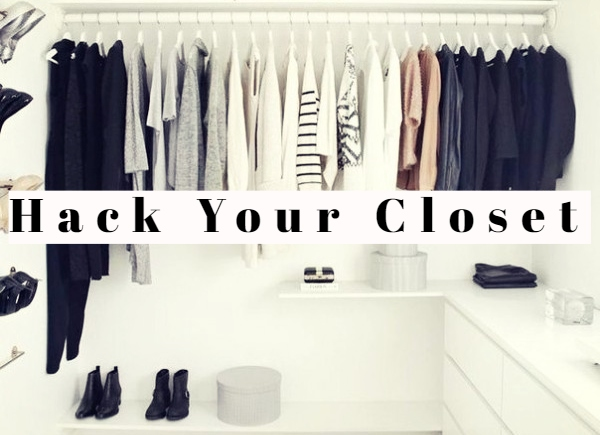
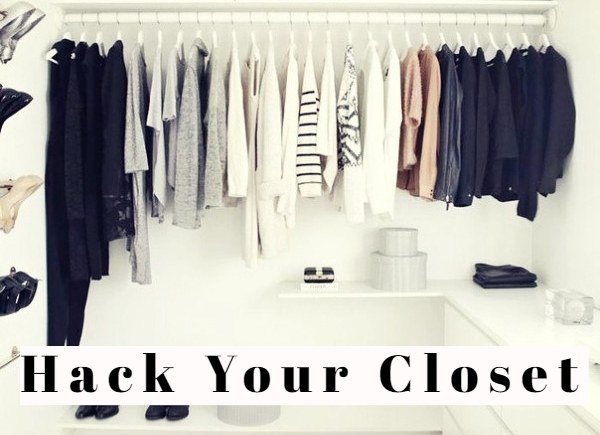
login page css

Changed region(s): [[0.0, 0.4184, 0.99, 0.5678], [0.03, 0.777, 0.99, 0.9563]]

diff --git a/public/css/user_register_or_login.css b/public/css/user_register_or_login.css
@@ -4,15 +4,72 @@
 /*    border: 1px solid transparent;*/
 /*}*/
 
-img {
-    width: 100%;
-    margin-left: 10px;
+/*img {*/
+/*    width: 100%;*/
+/*    margin-left: 10px;*/
+/*}*/
+
+/*div.col-xs-7 {*/
+/*    padding: 0;*/
+/*}*/
+
+/*div.col-xs-5 {*/
+/*    padding: 0;*/
+/*}*/
+
+body {
+    background-image: linear-gradient(rgba(255,255,255,.5), rgba(255,255,255,.5)), url('img/hack_your_closet.jpg');
+     /*height: 100%;*/
+    opacity: 0.95;
+    padding: 0;
+
+    background-size: auto, auto; /* Not to be confused with `auto auto` */
+    background-size: 50%, 25%, 25%;
+    background-size: 550px, auto, contain;
+    background-position: 20% 80%;
+    
 }
 
-div.col-xs-7 {
-    padding: 0;
+
+
+body.style {
+    opacity: 0.2;
 }
 
-div.col-xs-5 {
-    padding: 0;
+.col-xs-4 {
+    float: right;
+    margin-right:50px;
+ /*margin-left: 700px;*/
+ /*margin-top:50px;*/
+}
+
+.navbar {
+    font-family: "Abril-Fatface";
+    background-color: black;
+}
+
+.panel{
+    border-color:black;
+    border-radius: 15px;
+    font-family: "Abril-Fatface";
+    /*margin-left: 663px;*/
+
+}
+
+.panel-heading{
+    color: white;
+    /*border-color: black;*/
+    background-color:black;
+    border-top-right-radius:15px;
+    border-top-left-radius:15px;
+    
+}
+
+footer {
+   position:absolute;
+   bottom:0;
+   width:100%;
+   height:60px;   /* Height of the footer */
+   
+    
 }

diff --git a/resources/views/auth/user_register_or_login.blade.php b/resources/views/auth/user_register_or_login.blade.php
@@ -6,7 +6,7 @@
 
 <div class="row">
     <div class="col-xs-12">
-        <nav class="navbar navbar-inverse">
+        <nav class="navbar navbar-inverse !important"> 
         	<div class="container-fluid">
         		<div class="navbar-header">
         			<button type="button" class="navbar-toggle collapsed" data-toggle="collapse" data-target="#navbarEexample3">
@@ -38,51 +38,54 @@
     	</nav>
     </div>
     
-    <div class="col-xs-7">
-            {{HTML::image('img/hack_your_closet.jpg')}}
-    </div>
+    <!--<div class="col-xs-7">-->
+    <!--        {{HTML::image('img/hack_your_closet.jpg')}}-->
+    <!--</div>-->
     
-    <div class="col-xs-5">
-        <div class="panel panel-danger">
-            <div class="panel-heading">
-            <h1>Sign Up</h1>
-            <p>Your private information will be protected and you can edit it anytime</p>
-            </div>
-            <div class="panel-body">
-                 {!! Form::open(['route' => 'signup.post']) !!}
-                    <div class="form-group">
-                        {!! Form::label('name', 'User name') !!}
-                        {!! Form::text('name', old('name'), ['class' => 'form-control']) !!}
-                    </div>
-                    <div class="form-group">
-                       {!! Form::label('age', 'Age') !!} <br>
-                       {{Form::select('age', ['～20', '21～30', '31～40','41～50','51～'], 'select age')}}
-                    </div>
-                    <div class="form-group">
-                       {!! Form::label('gender', 'Gender') !!} <br>
-                       {{Form::select('gender', ['Male','Female','Other','Rather not say'])}}
-                    </div>
-                    <div class="form-group">
-                        {!! Form::label('password', 'Password') !!}
-                        {!! Form::password('password', ['class' => 'form-control']) !!}
-                    </div>
-                    <div class="form-group">
-                        {!! Form::label('password_confirmation', 'Password（confirm）') !!}
-                        {!! Form::password('password_confirmation', ['class' => 'form-control']) !!}
-                    </div>
-                    <div class="form-group">
-                        {!! Form::hidden('user_type', '1') !!}
-                        {!! Form::hidden('background', ' ') !!}
-                        {!! Form::hidden('style', ' ') !!}
-                    </div>    
-
-                    <div class="text-right">
-                        {!! Form::submit('Sign Up', ['class' => 'btn btn-success']) !!}
-                    </div>
-                {!! Form::close() !!} 
-            </div>
+    <body style="background-image: url('img/hack_your_closet.jpg')">
+    <div class="col-xs-4">
+        <div class="panel">
+                <div class="panel-heading">
+                <h1>Sign Up</h1>
+                <p>Your private information will be protected and you can edit it anytime</p>
+                </div>
+                <div class="panel-body">
+                     {!! Form::open(['route' => 'signup.post']) !!}
+                        <div class="form-group">
+                            {!! Form::label('name', 'User name') !!}
+                            {!! Form::text('name', old('name'), ['class' => 'form-control']) !!}
+                        </div>
+                        <div class="form-group">
+                           {!! Form::label('age', 'Age') !!} <br>
+                           {{Form::select('age', ['～20', '21～30', '31～40','41～50','51～'], 'select age')}}
+                        </div>
+                        <div class="form-group">
+                           {!! Form::label('gender', 'Gender') !!} <br>
+                           {{Form::select('gender', ['Male','Female','Other','Rather not say'])}}
+                        </div>
+                        <div class="form-group">
+                            {!! Form::label('password', 'Password') !!}
+                            {!! Form::password('password', ['class' => 'form-control']) !!}
+                        </div>
+                        <div class="form-group">
+                            {!! Form::label('password_confirmation', 'Password（confirm）') !!}
+                            {!! Form::password('password_confirmation', ['class' => 'form-control']) !!}
+                        </div>
+                        <div class="form-group">
+                            {!! Form::hidden('user_type', '1') !!}
+                            {!! Form::hidden('background', ' ') !!}
+                            {!! Form::hidden('style', ' ') !!}
+                        </div>    
+    
+                        <div class="text-right">
+                            {!! Form::submit('Sign Up', ['class' => 'btn btn-success']) !!}
+                        </div>
+                    {!! Form::close() !!} 
+                </div>
+            </div> 
         </div>
     </div>
+    </body>
 </div>
 
 @endsection

diff --git a/resources/views/auth/stylist_register_or_login.blade.php b/resources/views/auth/stylist_register_or_login.blade.php
@@ -7,7 +7,7 @@
 
 <div class="row">
     <div class="col-xs-12">
-        <nav class="navbar navbar-inverse">
+        <nav class="navbar navbar-inverse !important">
 	        <div class="container-fluid">
 		        <div class="navbar-header">
         			<button type="button" class="navbar-toggle collapsed" data-toggle="collapse" data-target="#navbarEexample3">
@@ -41,13 +41,12 @@
 </div>
 
 
- <div class="col-xs-7">
-            {{HTML::image('img/hackem_closet.jpg')}}
-</div>
-    
-<div class="row">
-    <div class="col-xs-5">
-        <div class="panel panel-danger">
+<!-- <div class="col-xs-7">-->
+<!--            {{HTML::image('img/hackem_closet.jpg')}}-->
+<!--</div>-->
+<body style="background-image: url('img/hackem_closet.jpg')">
+    <div class="col-xs-4">
+        <div class="panel">
             <div class="panel-heading">
             <h1>Sign Up</h1>
             <p>Your private information will be protected and can be edit it anytime</p>
@@ -105,7 +104,8 @@
             </div>
         </div>
     </div>
+    </div>
+    </body>
 </div>
-
 
 @endsection
